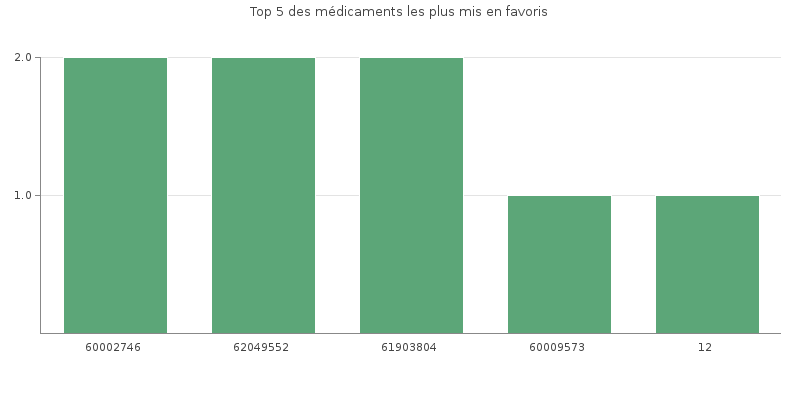
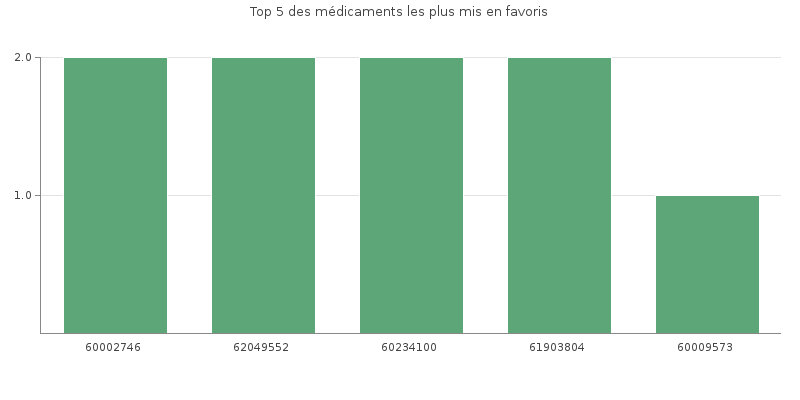
correction des erreurs d'affichages

diff --git a/Code site/inscription.php b/Code site/inscription.php
@@ -3,8 +3,9 @@ session_start();
 require "PHPMailer/PHPMailerAutoload.php";
 require('bd.php');
 //$bdd = new PDO('mysql:host=localhost;dbname=bd_manel;charset=utf8', 'root', 'root');
-//$bdd = getBDMarie() ;
+$bdd = getBDMarie() ;
 
+/* //Essai mail de confirmation
 if(isset($_POST['s\'inscrire'])){
     if(!empty($_post['nom']) && !empty($_POST['prenom']) && !empty($_POST['date']) && !empty($_POST['sexe']) && !empty($_POST['adr']) && !empty($_POST['num'])&& !empty($_POST['mail1']) && !empty($_POST['mail2']) && !empty($_POST['pass1'])&& !empty($_POST['pass2'])){
         $cle = rand(10000, 900000);
@@ -19,7 +20,7 @@ if(isset($_POST['s\'inscrire'])){
         $mdp=md5($_POST['pass1']);
         $mdp2=md5($_POST['pass2']);
   
-        $insererinscription = $bdd->prepare('INSERT INTO inscription(nom,prenom,date,sexe,adr,num,mail1,mail2,pass1,pass2, cle,confirme )VALUES(?, ?, ?, ?, ?, ?, ?, ?, ?, ?, ?, ?)');
+        $insererinscription = $bdd->prepare('INSERT INTO Inscription(nom,prenom,date,sexe,adr,num,mail1,mail2,pass1,pass2, cle,confirme )VALUES(?, ?, ?, ?, ?, ?, ?, ?, ?, ?, ?, ?)');
         $insererUser->execute(array($nom, $prenom, $date, $sexe, $adr,$num, $mail1, $mail2, $pass1, $pass2, $cle, 0 ));
         
         $recupinscription = $bdd->prepare('SELECT* FROM inscription WHERE nom=?');
@@ -65,7 +66,7 @@ if(isset($_POST['s\'inscrire'])){
     }else{
         echo "veuiller completer tout les champs";
     }
-}
+} */
 ?>
 <!DOCTYPE html>
 <html>
@@ -102,9 +103,8 @@ if(isset($_POST['s\'inscrire'])){
     </div>
 
     <div class='liensBas'>
-       <a 	href="quiSommesNous.php" > Qui sommes-nous ? </a>
+       <a 	href="quisommenous.php" > Qui sommes-nous ? </a>
        <a 	href="contact.php" > Contact </a>
-       <a 	href="mentionLegales.php" > Mentions légales </a>
        <a 	href="donneesPersonnelles.php" > Données personnelles </a> 
        <a 	href="baseDeDonnees.php" > Base de données </a>
     </div>

diff --git a/Code site/recherche.php b/Code site/recherche.php
@@ -126,7 +126,7 @@ if($nom!="" || $voieAdm!="" || $codeCIS!="" || $forme!=""){
 	
 	
 /* if($nom!="" && $voieAdm!="" && $codeCIS!=""){
->>>>>>> 716f0b41791c33df5b4e9eb290d3192aaaa3fd19
+	\\Ancien code pour la recherche
 	$present =$bdd->query("SELECT count(*)  FROM specialite WHERE denomination_medicament LIKE '%".$nom."%' AND CodeCIS=".$codeCIS." AND Voie_administration LIKE '%".$voieAdm."%'");
 	$ligne=0;
 	while ($result=$present->fetch()){
@@ -246,7 +246,6 @@ echo "<p id='retourRecherche'> <a href='pageRecherche.php' > Retour vers la rech
 	<div class='liensBas'>
 	<a 	href="quisommenous.php" > Qui sommes-nous ? </a>
 	<a 	href="contact.php" > Contact </a>
-	<a 	href="mentionLegales.php" > Mentions légales </a>
 	<a 	href="donneesPersonnelles.php" > Données personnelles </a>
 	<a 	href="baseDeDonnees.php" > Base de données </a>
 	</div>

diff --git a/Code site/medicament.php b/Code site/medicament.php
@@ -86,7 +86,7 @@ session_start();
 		<p class='cat'> Prix </p>  
 		<p class='info'> Min ".$matPres['prix_min']." € | Max ". $matPres['Prix_max']." € </br> </p> 
 		<p class='cat'> Taux de remboursement </br></p> 
-		<p class='info'>".$matPres['Taux_remboursement']."</p>";
+		<p class='info'>".$matPres['Taux_remboursement']."%</p>";
 		echo "</span> ";
 	}
 
@@ -133,7 +133,6 @@ session_start();
 	<div class='liensBas'>
 	<a 	href="quisommenous.php" > Qui sommes-nous ? </a>
 	<a 	href="contact.php" > Contact </a>
-	<a 	href="mentionLegales.php" > Mentions légales </a>
 	<a 	href="donneesPersonnelles.php" > Données personnelles </a>
 	<a 	href="baseDeDonnees.php" > Base de données </a>
 </div>

diff --git a/Code site/donneesclees.php b/Code site/donneesclees.php
@@ -39,6 +39,9 @@
 
 	<div id='graphique'>
 	<h2> Top 5 des médicaments en favoris : </h2>
+	<?php
+	require('graphiqueTopFavoris.php');
+	?>
 	<div> <img src="favoris.png" alt ="graphique Favoris" /></div> 
 
 	<h2> Top 10 des meilleurs taux de remboursements par rapport à la voie ou à la forme : </h2>
@@ -243,7 +246,6 @@
 	<div class='liensBas'>
 	<a 	href="quisommenous.php" >Qui sommes-nous ? </a>
 	<a 	href="contact.php" > Contact </a>
-	<a 	href="mentionLegales.php" >	Mentions légales </a>
 	<a 	href="donneesPersonnelles.php" > Données personnelles </a>
 	<a 	href="baseDeDonnees.php" > Base de données </a>
 	</div>

diff --git a/Code site/connexion.php b/Code site/connexion.php
@@ -27,9 +27,8 @@
 	<a 	href="inscription.php" > Je ne possède pas encore de compte </a>
 </div>
 	<div class='liensBas'>
-	<a 	href="quiSommesNous.php" >Qui sommes-nous ? </a>
+	<a 	href="quisommesnous.php" >Qui sommes-nous ? </a>
 	<a 	href="contact.php" > Contact </a>
-	<a 	href="mentionLegales.php" >Mentions légales </a>
 	<a 	href="donneesPersonnelles.php" > Données personnelles </a>
 	<a 	href="baseDeDonnees.php" > Base de données </a>
 	</div>

diff --git a/Code site/favoris.php b/Code site/favoris.php
@@ -53,8 +53,7 @@ include('bd.php');
 
         <div class='liensBas'>
         <a 	href="quisommenous.php" >Qui sommes-nous ? </a>
-        <a 	href="contact.php" > Contact </a>
-        <a 	href="mentionLegales.php" >	Mentions légales </a>      
+        <a 	href="contact.php" > Contact </a>    
         <a 	href="donneesPersonnelles.php" > Données personnelles </a>        
         <a 	href="baseDeDonnees.php" > Base de données </a>
     </div>

diff --git a/Code site/quisommenous.php b/Code site/quisommenous.php
@@ -53,7 +53,6 @@
        <div class='liensBas'>
 	      <a href="quisommenous.php" > Qui sommes-nous ? </a>
          <a href="contact.php" > Contact </a>
-	      <a href="mentionLegales.php" > Mentions légales </a>
 	      <a href="donneesPersonnelles.php" > Données personnelles </a>
 	      <a href="baseDeDonnees.php" > Base de données </a>
 	</div>

diff --git a/Code site/baseDeDonnees.php b/Code site/baseDeDonnees.php
@@ -41,7 +41,6 @@ session_start();
     <div class='liensBas'>
 	<a 	href="quisommenous.php" > Qui sommes-nous ? </a>
 	<a 	href="contact.php" > Contact </a>
-	<a 	href="mentionLegales.php" > Mentions légales </a>
 	<a 	href="donneesPersonnelles.php" > Données personnelles </a>
 	<a 	href="baseDeDonnees.php" > Base de données </a>
     </div>

diff --git a/Code site/donneesPersonnelles.php b/Code site/donneesPersonnelles.php
@@ -45,7 +45,6 @@ session_start();
     <div class='liensBas'>
 	<a 	href="quisommenous.php" > Qui sommes-nous ? </a>
 	<a 	href="contact.php" > Contact </a>
-	<a 	href="mentionLegales.php" > Mentions légales </a>
 	<a 	href="donneesPersonnelles.php" > Données personnelles </a>
 	<a 	href="baseDeDonnees.php" > Base de données </a>
     </div>

diff --git a/Code site/modifier_information.php b/Code site/modifier_information.php
@@ -74,7 +74,7 @@
     <div class='liensBas'>
 		<a 	href="quisommenous.php" >Qui sommes-nous ? </a>
 		<a 	href="contact.php" > Contact </a>
-		<a 	href="mentionLegales.php" >	Mentions légales </a>
+		<a 	href="baseDeDonnees.php" > Base de données </a>
 		<a 	href="donneesPersonnelles.php" > Données personnelles </a>
     </div>
 

diff --git a/Code site/profil.php b/Code site/profil.php
@@ -55,7 +55,6 @@
 	<div class='liensBas'>
 		<a 	href="quisommenous.php" >Qui sommes-nous ? </a>
 		<a 	href="contact.php" > Contact </a>
-		<a 	href="mentionLegales.php" >	Mentions légales </a>
 		<a 	href="donneesPersonnelles.php" > Données personnelles </a>
 		<a 	href="baseDeDonnees.php" > Base de données </a>
 	</div>

diff --git a/Code site/contact.php b/Code site/contact.php
@@ -48,7 +48,6 @@
 	<div class ='liensBas'>
 	<a 	href="quisommenous.php" > Qui sommes-nous ? </a>
 	<a 	href="contact.php" > Contact </a>
-	<a 	href="mentionLegales.php" > Mentions légales </a>
 	<a 	href="donneesPersonnelles.php" > Données personnelles </a>
 	<a 	href="baseDeDonnees.php" > Base de données </a>
 	</div>
